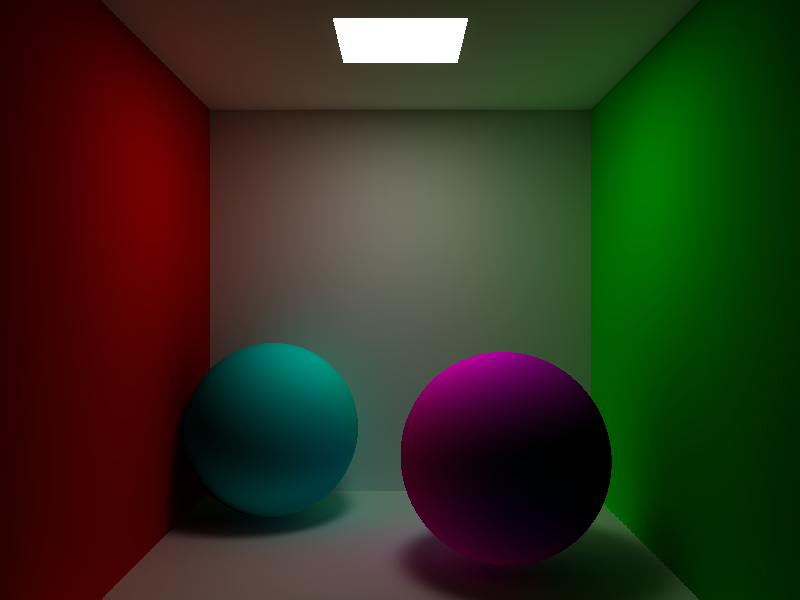
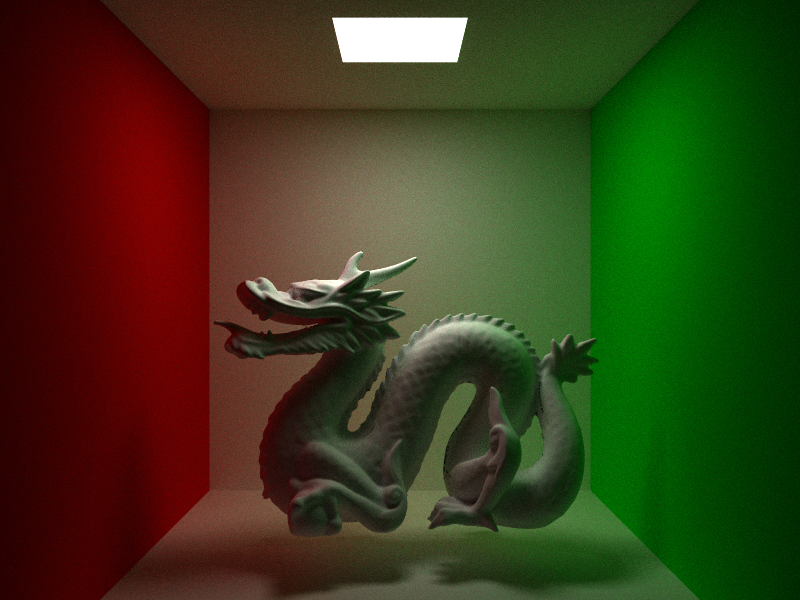
update log

diff --git a/RayTracer/RayTracing.cpp b/RayTracer/RayTracing.cpp
@@ -16,15 +16,15 @@ Vec3 RayTracing::getColor(DistRay &ray, int depth) const {
 	if (intersect) {
 		IntersectInfo info = intersect->getIntersectInfo();
 
-		Vec3 emission = info.surface->emission;
+		/*Vec3 emission = info.surface->emission;
 		if (!emission.isZero()) return emission;
 
 		const NeuralNetwork &direct = directNNVec[info.objNum];
 		const NeuralNetwork &indirect = indirectNNVec[info.objNum];
 		DataGenerator::TrainData input{ info.interPoint, ray.dir, Vec3::zeros(), info.normal, info.surface->diffuse };
-		return direct.predict(input) + indirect.predict(input);
+		return direct.predict(input) + indirect.predict(input);*/
 
-		/*Vec3 emission = info.surface->emission;
+		Vec3 emission = info.surface->emission;
 		Vec3 ambient = AMBIENT_INTENSITY * info.surface->ambient;
 		Vec3 local = getPhongLocal(info, ray);
 		ray.dist += intersect->getDistToInter();
@@ -33,7 +33,7 @@ Vec3 RayTracing::getColor(DistRay &ray, int depth) const {
 		Vec3 refl = getReflection(info, ray, depth);
 		Vec3 refr = getRefraction(info, ray, depth);
 
-		return emission + ambient + local + refl + refr;*/
+		return emission + ambient + local + refl + refr;
 	} else return Vec3::NONE;
 }
 

diff --git a/RayTracer/Renderer.cpp b/RayTracer/Renderer.cpp
@@ -60,7 +60,7 @@ array<Mat, 3> Renderer::rawRender(bool showBar) const {
 			Vec3 direct{ cut(radiance.first[0]), cut(radiance.first[1]), cut(radiance.first[2]) };
 			Vec3 indirect{ cut(radiance.second[0]), cut(radiance.second[1]), cut(radiance.second[2]) };
 
-			Vec3 color[3] = { direct, indirect, direct + indirect };
+			Vec3 color[3] = { direct + indirect, direct, indirect };
 			rep(m, 3) {
 				results[m].at<Vec3d>(j, i)[0] += color[m][2];
 				results[m].at<Vec3d>(j, i)[1] += color[m][1];
